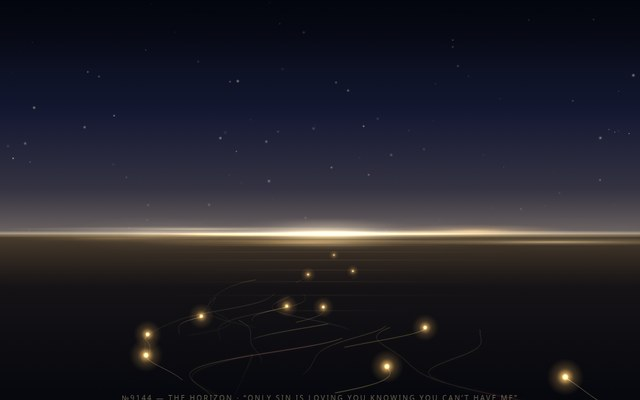
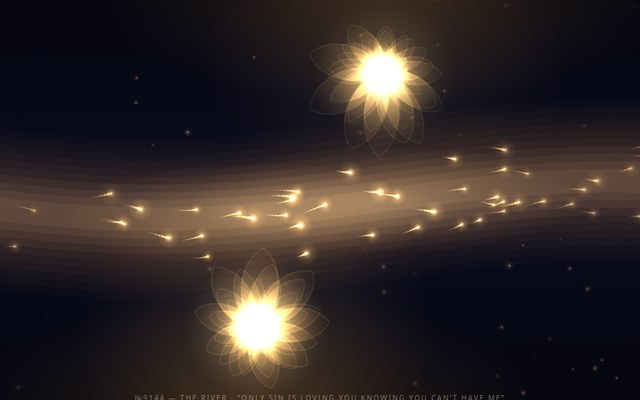
Replace piece 9144 with The River: golden light flows between two radiant blooms (Claude-built)

diff --git a/9144/index.html b/9144/index.html
@@ -3,202 +3,214 @@
 <head>
 <meta charset="utf-8">
 <meta name="viewport" content="width=device-width,initial-scale=1,viewport-fit=cover">
-<title>№9144 — The Horizon</title>
+<title>№9144 — The River</title>
 <style>
-  html,body{margin:0;height:100%;background:#04060f;overflow:hidden}
+  html,body{margin:0;height:100%;background:#05060f;overflow:hidden}
   canvas{position:fixed;inset:0;width:100%;height:100%;display:block}
-  #cap{position:fixed;left:0;right:0;bottom:max(14px,env(safe-area-inset-bottom));padding:0 18px;text-align:center;
-    font:10px/1.6 system-ui,-apple-system,"Segoe UI",Roboto,sans-serif;letter-spacing:.22em;text-transform:uppercase;
-    color:#ffe9b0;opacity:.38;pointer-events:none}
+  #cap{position:fixed;left:0;right:0;bottom:calc(14px + env(safe-area-inset-bottom));text-align:center;
+    padding:0 18px;font:10px/1.5 system-ui,-apple-system,"Segoe UI",sans-serif;letter-spacing:.2em;
+    text-transform:uppercase;color:#ffe9b0;opacity:.42;pointer-events:none}
 </style>
 </head>
 <body>
 <canvas id="c"></canvas>
-<div id="cap">№9144 — The Horizon · “Only sin is loving you knowing you can’t have me”</div>
+<div id="cap">№9144 — The River · “Only sin is loving you knowing you can’t have me”</div>
 <script>
 (() => {
   const cv = document.getElementById('c'), ctx = cv.getContext('2d');
-  const trail = document.createElement('canvas'), tx = trail.getContext('2d');   // accumulated light
-  const R = (a, b) => a + Math.random() * (b - a);
-  const clamp = (v, a, b) => Math.min(b, Math.max(a, v));
-  const GOLD = '242,185,94', PALE = '255,233,176', DEEP = '192,127,46';
+  const TAU = Math.PI * 2;
+  const rnd = (a, b) => a + Math.random() * (b - a);
 
-  // soft radial sprites, drawn scaled
-  function sprite(stops) {
-    const c = document.createElement('canvas'); c.width = c.height = 64;
-    const g = c.getContext('2d'), r = g.createRadialGradient(32, 32, 0, 32, 32, 32);
-    stops.forEach(s => r.addColorStop(s[0], s[1]));
-    g.fillStyle = r; g.fillRect(0, 0, 64, 64); return c;
+  let W, H, dpr, S, hw, R, bg, bloomA, bloomB, forms, motes, dust;
+  let T = 0, last = 0, raf = 0;
+
+  // soft gold glow sprite, shared by motes, dust and form halos
+  const glow = (() => {
+    const g = document.createElement('canvas'); g.width = g.height = 64;
+    const x = g.getContext('2d'), r = x.createRadialGradient(32, 32, 0, 32, 32, 32);
+    r.addColorStop(0, 'rgba(255,240,200,1)');
+    r.addColorStop(.12, 'rgba(255,225,150,.75)');
+    r.addColorStop(.4, 'rgba(242,185,94,.22)');
+    r.addColorStop(1, 'rgba(192,127,46,0)');
+    x.fillStyle = r; x.fillRect(0, 0, 64, 64);
+    return g;
+  })();
+
+  // the river's meandering centre line
+  const cy = x => H * .5 + Math.sin(x / W * Math.PI * 1.4 + .5) * H * .045;
+
+  // a flower made of light, pre-rendered once; petals lengthen toward the other bank
+  function makeBloom(face, seed) {
+    const size = Math.ceil(R * 2.8 * dpr), c = document.createElement('canvas');
+    c.width = c.height = size;
+    const x = c.getContext('2d');
+    x.scale(dpr, dpr); x.translate(R * 1.4, R * 1.4);
+    x.globalCompositeOperation = 'lighter';
+    const layers = [[9, 1, .34], [12, .8, .3], [15, .58, .26], [18, .38, .24]];
+    layers.forEach(([n, len, w], li) => {
+      for (let i = 0; i < n; i++) {
+        const a = (i + (li % 2) * .5) / n * TAU + seed * (li + 1);
+        const lean = 1 + .3 * Math.cos(a - face); // longer toward the other bank
+        const L = R * len * lean * (.92 + .16 * Math.sin(i * 12.9 + seed * 7 + li));
+        const pw = L * w;
+        x.save(); x.rotate(a + Math.PI / 2);
+        const g = x.createLinearGradient(0, 0, 0, -L);
+        g.addColorStop(0, 'rgba(255,233,176,.5)');
+        g.addColorStop(.45, 'rgba(242,185,94,.2)');
+        g.addColorStop(1, 'rgba(192,127,46,0)');
+        x.beginPath(); x.moveTo(0, 0);
+        x.bezierCurveTo(pw, -L * .3, pw * .8, -L * .85, 0, -L);
+        x.bezierCurveTo(-pw * .8, -L * .85, -pw, -L * .3, 0, 0);
+        x.fillStyle = g; x.fill();
+        x.strokeStyle = 'rgba(247,201,106,.16)'; x.lineWidth = 1; x.stroke();
+        x.restore();
+      }
+    });
+    const core = x.createRadialGradient(0, 0, 0, 0, 0, R * .34);
+    core.addColorStop(0, 'rgba(255,246,220,1)');
+    core.addColorStop(.35, 'rgba(255,225,150,.7)');
+    core.addColorStop(1, 'rgba(242,185,94,0)');
+    x.fillStyle = core; x.beginPath(); x.arc(0, 0, R * .34, 0, TAU); x.fill();
+    for (let i = 0; i < 26; i++) { // stamen sparks
+      const a = i / 26 * TAU + seed, d = R * (.2 + .12 * ((i * 7) % 5) / 4);
+      x.fillStyle = 'rgba(255,233,176,.7)';
+      x.beginPath(); x.arc(Math.cos(a) * d, Math.sin(a) * d, 1.3, 0, TAU); x.fill();
+    }
+    return c;
   }
-  const lamp = sprite([[0, 'rgba(255,246,220,1)'], [.14, `rgba(${PALE},.95)`], [.38, `rgba(${GOLD},.32)`], [1, `rgba(${DEEP},0)`]]);
-  const haloP = sprite([[0, `rgba(${PALE},1)`], [.35, `rgba(${PALE},.4)`], [1, `rgba(${PALE},0)`]]);
-  const haloG = sprite([[0, `rgba(${GOLD},1)`], [.4, `rgba(${GOLD},.38)`], [1, `rgba(${DEEP},0)`]]);
 
-  let W, H, dpr, u, hy, G, LAMBDA = 0.018;
-  let walkers, stars, streaks, t, fadeT, raf = 0, last = 0;
+  // static layer: night field, banks, and the river's luminous body
+  function paintBackground() {
+    bg = document.createElement('canvas'); bg.width = W * dpr; bg.height = H * dpr;
+    const x = bg.getContext('2d'); x.scale(dpr, dpr);
+    const sky = x.createLinearGradient(0, 0, 0, H);
+    sky.addColorStop(0, '#04050e'); sky.addColorStop(.5, '#0a0c1f'); sky.addColorStop(1, '#04050e');
+    x.fillStyle = sky; x.fillRect(0, 0, W, H);
+    x.globalCompositeOperation = 'lighter';
+    // warm ground-glow on each bank
+    forms.forEach(f => {
+      const edge = f.y < H / 2 ? 0 : H;
+      x.save(); x.translate(f.x, edge); x.scale(2.4, 1);
+      const g = x.createRadialGradient(0, 0, 0, 0, 0, R * 1.5);
+      g.addColorStop(0, 'rgba(192,127,46,.22)'); g.addColorStop(1, 'rgba(192,127,46,0)');
+      x.fillStyle = g; x.beginPath(); x.arc(0, 0, R * 1.5, 0, TAU); x.fill(); x.restore();
+    });
+    // river body: stacked strokes from wide/faint to narrow/bright
+    x.lineCap = 'round'; x.lineJoin = 'round';
+    for (let k = 0; k < 10; k++) {
+      const t = k / 9;
+      x.lineWidth = hw * 2 * (1.7 - 1.45 * t);
+      x.strokeStyle = `rgba(${t > .6 ? '247,201,106' : '192,127,46'},${.028 + .02 * t})`;
+      x.beginPath();
+      for (let px = -20; px <= W + 20; px += 8) px < 0 ? x.moveTo(px, cy(px)) : x.lineTo(px, cy(px));
+      x.stroke();
+    }
+    // the river takes on each form's light where it passes
+    forms.forEach(f => {
+      x.save(); x.translate(f.x, cy(f.x)); x.scale(2, .55);
+      const g = x.createRadialGradient(0, 0, 0, 0, 0, R * 1.2);
+      g.addColorStop(0, 'rgba(255,225,150,.2)'); g.addColorStop(1, 'rgba(242,185,94,0)');
+      x.fillStyle = g; x.beginPath(); x.arc(0, 0, R * 1.2, 0, TAU); x.fill(); x.restore();
+    });
+  }
 
   function resize() {
     dpr = Math.min(window.devicePixelRatio || 1, 2);
     W = innerWidth; H = innerHeight;
-    for (const c of [cv, trail]) { c.width = Math.round(W * dpr); c.height = Math.round(H * dpr); }
-    u = Math.max(1, Math.min(W, H) / 520) * (H > W ? 1.15 : 1);
-    hy = Math.round(H * 0.58);           // horizon at 58%: a real field of ground below it
-    G = H - hy;                          // ground depth in px: q = (y-hy)/G is 1 at the viewer, 0 at the horizon
-    t = 0; fadeT = 0;
-    stars = Array.from({ length: Math.round(W * H / 5500) }, () => ({
-      x: R(0, W), y: R(0, hy), r: R(.4, 1.3) * u, ph: R(0, 6.3), z: R(.15, .5)
-    }));
-    streaks = [{ x: .5, hw: .85, hh: 5, y: 0, a: .95, p: PALE, f: 0 }];
-    for (let i = 0; i < 9; i++) streaks.push({
-      x: R(.1, .9), hw: R(.12, .4), hh: R(2, 8), y: R(-9, 11), a: R(.25, .6),
-      p: i % 3 ? GOLD : PALE, f: R(.05, .18), ph: R(0, 6.3), dx: R(.03, .12)
+    cv.width = W * dpr; cv.height = H * dpr;
+    S = Math.max(.7, Math.min(W, H) / 600);
+    hw = Math.min(H * .11, 90 * S);
+    R = Math.min(W * .4, H * .19);
+
+    const near = { x: W * .4, y: H - R * 1.05 }, far = { x: W * .6, y: R * 1.05 };
+    near.face = Math.atan2(far.y - near.y, far.x - near.x);
+    far.face = Math.atan2(near.y - far.y, near.x - far.x);
+    near.ph = 0; far.ph = 2.1;
+    forms = [near, far];
+    near.sprite = makeBloom(near.face, 1.3); far.sprite = makeBloom(far.face, 4.1);
+
+    motes = Array.from({ length: 50 }, () => {
+      const v = rnd(-1, 1);
+      return { u: Math.random() * (W + 80), v, r: rnd(1.3, 2.8) * S, ph: rnd(0, TAU),
+               sp: rnd(32, 62) * (1 - .45 * v * v) * S };
     });
-    walkers = Array.from({ length: W < H ? 9 : 11 }, () => spawn(R(0, 28)));
-    for (let i = 0; i < 1500; i++) step(1 / 30, true);   // pre-walk so the field starts already woven
-    walkers.forEach((w, i) => {                          // spread depths near to far: a few large in front, mid, a few small at the horizon
-      const n = walkers.length, k = i < 3 ? R(.8, .98) : i < n - 3 ? R(.4, .68) : R(.12, .3);
-      Object.assign(w, { g: k * G, mode: 'walk', fading: false, a: Math.max(w.a, .8), delay: 0, init: false, age: Math.min(w.age, 20), standAt: 0 });
-      w.y = hy + w.g; w.x = W / 2 + w.X * k;
+    dust = Array.from({ length: 48 }, () => {
+      let y; const x = rnd(0, W);
+      do y = rnd(0, H); while (Math.abs(y - cy(x)) < hw * 1.1);
+      return { x, y, r: rnd(.5, 1.5) * S, ph: rnd(0, TAU), a: rnd(8, 22) * S, sp: rnd(.15, .4) };
     });
+    paintBackground();
   }
 
-  function spawn(delay) {
-    return {
-      X: R(-.4, .4) * W, g: (Math.random() < .4 ? R(.8, 1) : R(.45, .8)) * G, x: 0, y: hy + G, a: 0, age: 0, delay, mode: 'walk', fading: false,
-      life: R(55, 105), standAt: Math.random() < .7 ? R(14, 55) : 0, standFor: R(5, 11), turn: Math.random() < .5,
-      p1: R(0, 6.3), p2: R(0, 6.3), ph: R(0, 6.3), amp: R(7, 15), px: 0, py: 0, init: false
-    };
-  }
-  const scaleOf = w => clamp((w.y - hy) / G, .06, 1);   // perspective scale: 1 at the viewer, tiny at the horizon
-
-  function update(w, dt, fast) {
-    if (w.delay > 0) { w.delay -= dt; return; }
-    w.age += dt;
-    if (w.mode === 'walk' && w.standAt && w.age > w.standAt) { w.mode = 'stand'; w.until = w.age + w.standFor; w.standAt = 0; }
-    if (w.mode === 'stand' && w.age > w.until) { if (w.turn) { w.mode = 'turn'; w.fading = true; } else w.mode = 'walk'; }
-    if (w.age > w.life) w.fading = true;
-    w.a += ((w.fading ? 0 : 1) - w.a) * dt * (w.fading ? .45 : .7);
-
-    const q = clamp(w.g / G, 0, 1);                     // depth: 1 - q (0 = viewer, 1 = horizon)
-    let vg, vX = w.amp * u * (Math.sin(.11 * w.age + w.p1) + .6 * Math.sin(.27 * w.age + w.p2));
-    if (w.mode === 'walk') vg = -LAMBDA * w.g;          // walking: closing the gap ever more slowly, never arriving
-    else if (w.mode === 'stand') { vg = 0; vX = 0; }    // standing: still, on the ground
-    else { vg = .05 * (w.g + 30 * u); vX *= .5; }       // turning: back toward the viewer, into the dark
-    const lim = W * .46;
-    vX -= (w.X - clamp(w.X, -lim, lim)) * .8;
-    w.X += vX * dt; w.g = clamp(w.g + vg * dt, 0, G * 1.15);
-    w.ph += dt * (w.mode === 'stand' ? 1.3 : 6.5);
-    const qq = clamp(w.g / G, 0, 1.15);
-    w.x = W / 2 + w.X * qq; w.y = hy + w.g;             // perspective: lateral spread converges on the horizon
-
-    if (w.init) {                                       // paint the trail on the ground behind them
-      const sc = scaleOf(w), seg = Math.hypot(w.x - w.px, w.y - w.py);
-      const lit = clamp(w.a, 0, 1) * (.3 + .7 * sc);
-      tx.lineCap = 'round'; tx.beginPath(); tx.moveTo(w.px, w.py); tx.lineTo(w.x, w.y + .01);
-      const wg = Math.max(2, 9 * u * sc), wp = Math.max(.8, 1.3 * u * sc);
-      tx.strokeStyle = `rgba(${GOLD},${clamp(.1 * seg / wg, 0, .3) * lit})`; tx.lineWidth = wg; tx.stroke();   // evenly lit along length, any speed
-      tx.strokeStyle = `rgba(${PALE},${clamp(.55 * seg / wp, 0, .5) * lit})`; tx.lineWidth = wp; tx.stroke();
-    }
-    w.px = w.x; w.py = w.y; w.init = true;
-    if (w.fading && w.a < .02) Object.assign(w, spawn(R(1, 7)));
+  function motePos(m, t) {
+    const x = (((m.u + m.sp * t) % (W + 80)) + W + 80) % (W + 80) - 40;
+    const y = cy(x) + m.v * hw * .9 + Math.sin(x * .02 + m.ph + t * .8) * hw * .12;
+    return [x, y];
   }
 
-  function fade() {                                     // let old light slowly die
-    tx.setTransform(1, 0, 0, 1, 0, 0); tx.globalCompositeOperation = 'destination-out';
-    tx.fillStyle = 'rgba(0,0,0,.08)'; tx.fillRect(0, 0, trail.width, trail.height);
-    tx.globalCompositeOperation = 'source-over'; tx.setTransform(dpr, 0, 0, dpr, 0, 0);
+  // brightness of the river near each form (fed by that form's light)
+  function feed(x) {
+    let b = 0;
+    for (const f of forms) b = Math.max(b, Math.exp(-((x - f.x) ** 2) / (2 * (R * 1.1) ** 2)));
+    return .5 + .75 * b;
   }
 
-  function step(dt) {
-    t += dt;
-    tx.setTransform(dpr, 0, 0, dpr, 0, 0);
-    for (const w of walkers) update(w, dt);
-    if ((fadeT += dt) >= 2) { fadeT -= 2; fade(); }
-    for (const s of stars) { s.y -= 10 * u * s.z * .3 * dt; if (s.y < 0) { s.y += hy; s.x = R(0, W); } }
-  }
-
-  function render() {
+  function draw() {
     ctx.setTransform(dpr, 0, 0, dpr, 0, 0);
     ctx.globalCompositeOperation = 'source-over'; ctx.globalAlpha = 1;
-    let g = ctx.createLinearGradient(0, 0, 0, H);
-    g.addColorStop(0, '#03050d'); g.addColorStop(hy / H * .55, '#0a1230'); g.addColorStop(hy / H, '#13203f');
-    g.addColorStop(hy / H + .001, '#070a14'); g.addColorStop(1, '#04060c');
-    ctx.fillStyle = g; ctx.fillRect(0, 0, W, H);
-
-    // the horizon breathes; now and then it seems to look back
-    const gaze = Math.pow(Math.max(0, Math.sin(t * .17)), 8);
-    const b = .78 + .12 * Math.sin(t * .55) + .07 * Math.sin(t * 1.7 + 1) + .2 * gaze;
-
+    ctx.drawImage(bg, 0, 0, W, H);
     ctx.globalCompositeOperation = 'lighter';
-    for (const s of stars) {                             // stars, fading toward both edges of the sky
-      const e = Math.min(s.y / (hy * .12), (hy - s.y) / (hy * .3), 1);
-      if (e <= 0) continue;
-      ctx.globalAlpha = e * (.35 + .35 * Math.sin(t * .9 + s.ph)) ;
-      ctx.drawImage(haloP, s.x - s.r * 2, s.y - s.r * 2, s.r * 4, s.r * 4);
+
+    for (const d of dust) { // bank dust
+      const x = d.x + Math.sin(T * d.sp + d.ph) * d.a, y = d.y + Math.cos(T * d.sp * .8 + d.ph) * d.a * .6;
+      ctx.globalAlpha = .25 + .2 * Math.sin(T * .9 + d.ph);
+      const g = d.r * 5; ctx.drawImage(glow, x - g, y - g, g * 2, g * 2);
+    }
+
+    for (const f of forms) { // still, pulsing blooms
+      const p = Math.sin(T * .9 + f.ph), s = 1 + .035 * p;
+      const h = R * 4.4;
+      ctx.globalAlpha = .38 + .1 * p;
+      ctx.drawImage(glow, f.x - h / 2, f.y - h / 2, h, h);
+      ctx.save(); ctx.translate(f.x, f.y); ctx.rotate(Math.sin(T * .25 + f.ph) * .03); ctx.scale(s, s);
+      ctx.globalAlpha = .88 + .12 * p;
+      ctx.drawImage(f.sprite, -R * 1.4, -R * 1.4, R * 2.8, R * 2.8);
+      ctx.restore();
+    }
+
+    ctx.lineCap = 'round';
+    for (const m of motes) { // flowing motes with fading trails
+      const [x, y] = motePos(m, T), b = feed(x);
+      let [px, py] = [x, y];
+      for (let k = 1; k <= 7; k++) {
+        const [qx, qy] = motePos(m, T - k * .09);
+        if (Math.abs(qx - px) < 100) {
+          ctx.globalAlpha = .55 * b * (1 - k / 8);
+          ctx.strokeStyle = '#f7c96a'; ctx.lineWidth = m.r * (1.5 - k / 6);
+          ctx.beginPath(); ctx.moveTo(px, py); ctx.lineTo(qx, qy); ctx.stroke();
+        }
+        px = qx; py = qy;
+      }
+      ctx.globalAlpha = Math.min(1, .75 * b * (.85 + .15 * Math.sin(T * 2 + m.ph)));
+      const g = m.r * 6.5; ctx.drawImage(glow, x - g, y - g, g * 2, g * 2);
     }
     ctx.globalAlpha = 1;
-
-    const L = H * .6;                                    // dusk glow rising off the horizon
-    g = ctx.createLinearGradient(0, hy, 0, hy - L);
-    g.addColorStop(0, `rgba(${GOLD},${.4 * b})`); g.addColorStop(.18, `rgba(${DEEP},${.2 * b})`);
-    g.addColorStop(.5, `rgba(${DEEP},${.05 * b})`); g.addColorStop(1, `rgba(${DEEP},0)`);
-    ctx.fillStyle = g; ctx.fillRect(0, hy - L, W, L);
-
-    ctx.drawImage(trail, 0, 0, W, H);                    // the map of devotion
-
-    ctx.globalCompositeOperation = 'source-over';        // keep the top of the sky deep
-    g = ctx.createLinearGradient(0, 0, 0, H * .2);
-    g.addColorStop(0, 'rgba(3,5,13,.9)'); g.addColorStop(1, 'rgba(3,5,13,0)');
-    ctx.fillStyle = g; ctx.fillRect(0, 0, W, H * .2);
-    ctx.globalCompositeOperation = 'lighter';
-
-    // ground below the horizon, glowing faintly
-    g = ctx.createLinearGradient(0, hy, 0, H);
-    g.addColorStop(0, `rgba(${GOLD},${.3 * b})`); g.addColorStop(.3, `rgba(${DEEP},${.08 * b})`); g.addColorStop(1, `rgba(${DEEP},0)`);
-    ctx.fillStyle = g; ctx.fillRect(0, hy, W, H - hy);
-    for (let k = 1; k <= 9; k++) {                       // shimmering reflections
-      const y = hy + u * (4 + k * k * 1.1); if (y > H) break;
-      const w = W * (.55 - k * .035) * (.8 + .2 * Math.sin(t * .7 + k * 2.1));
-      ctx.globalAlpha = .22 * b / Math.sqrt(k);
-      ctx.drawImage(haloG, W / 2 - w, y - u * 1.2, w * 2, u * 2.4);
-    }
-
-    // the horizon itself: soft layered streaks of light, never a hard line
-    for (const s of streaks) {
-      const x = W * (s.x + (s.dx ? Math.sin(t * s.f + s.ph) * s.dx : 0));
-      const pulse = s.dx ? .65 + .35 * Math.sin(t * s.f * 4 + s.ph) : 1;
-      ctx.globalAlpha = clamp(s.a * pulse * b, 0, 1);
-      ctx.drawImage(s.p === PALE ? haloP : haloG, x - s.hw * W, hy + s.y * u - s.hh * u, s.hw * W * 2, s.hh * u * 2);
-    }
-    for (const w of walkers) {                           // it warms toward whoever is nearest
-      if (w.a < .02) continue;
-      const near = (1 - clamp((w.y - hy) / G, 0, 1)) ** 2;   // the horizon warms toward whoever is farthest along
-      ctx.globalAlpha = .28 * w.a * near * b;
-      ctx.drawImage(haloP, w.x - 90 * u, hy - 20 * u, 180 * u, 40 * u);
-    }
-
-    for (const w of walkers) {                           // the walkers: small warm lamps
-      if (w.a < .01 || w.delay > 0) continue;
-      const sc = scaleOf(w), br = .35 + .65 * sc, r = 15 * u * (.1 + .9 * sc) * (.94 + .06 * Math.sin(t * 3.1 + w.p1));
-      const x = w.x + Math.sin(w.ph * .5) * 1.1 * u * (.2 + .8 * sc), y = w.y - Math.abs(Math.sin(w.ph)) * (w.mode === 'stand' ? .5 : 1.8) * u * (.15 + .85 * sc) * 1.4;
-      ctx.globalAlpha = w.a * .8 * br; ctx.drawImage(haloG, x - r * 2, y - r * 2, r * 4, r * 4);
-      ctx.globalAlpha = w.a * br; ctx.drawImage(lamp, x - r, y - r, r * 2, r * 2);
-      ctx.globalAlpha = w.a * br; ctx.drawImage(lamp, x - r * .3, y - r * .3, r * .6, r * .6);
-    }
-    ctx.globalAlpha = 1; ctx.globalCompositeOperation = 'source-over';
   }
 
-  function frame(ts) {
-    const dt = Math.min(.05, (ts - last) / 1000); last = ts;
-    step(dt); render(); raf = requestAnimationFrame(frame);
+  function frame(now) {
+    const dt = Math.min(.05, (now - last) / 1000); last = now; T += dt;
+    draw(); raf = requestAnimationFrame(frame);
   }
-  const start = () => { if (!raf) { last = performance.now(); raf = requestAnimationFrame(frame); } };
-  const stop = () => { cancelAnimationFrame(raf); raf = 0; };
+  function start() { if (!raf) { last = performance.now(); raf = requestAnimationFrame(frame); } }
+  function stop() { cancelAnimationFrame(raf); raf = 0; }
 
-  addEventListener('resize', () => { resize(); render(); });
-  addEventListener('blur', stop); addEventListener('focus', start);
+  addEventListener('resize', () => { resize(); draw(); });
+  addEventListener('blur', stop);
+  addEventListener('focus', start);
   document.addEventListener('visibilitychange', () => document.hidden ? stop() : start());
-  resize(); start();
+
+  resize(); draw();
+  if (!document.hidden) start();
 })();
 </script>
 </body>
